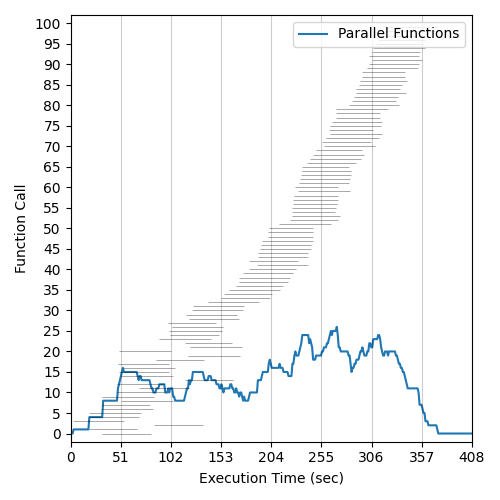
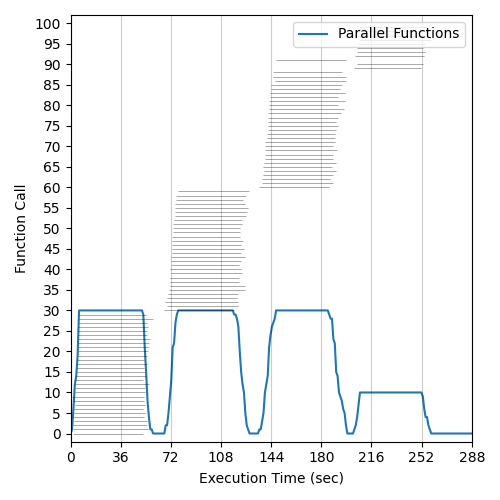
update azure containerapp flops bench

diff --git a/benchmarks/flops/azure_containers/README.md b/benchmarks/flops/azure_containers/README.md
@@ -1,8 +1,6 @@
 # Microsoft Azure Container Apps Flops Benchmark (westeurope)
-# Date: 13/06/2022
---------
 
-## Total Parallelism: 100 - Runtime Memory: 1024
+## Total Invocations: 100 - Runtime Memory: 1024 - Date: 13/06/2022
 ### Execution Histogram | GFLOP Rates | Peak and Effective GFLOPS
 <p align="center">
   <img width="33%" src="100_flops_execution.png"></img>
@@ -11,10 +9,7 @@
 </p>
 
 
-## Total Parallelism: 1000 - Runtime Memory: 1024
+## Total Invocations: 1000 - Runtime Memory: 1024 - Date: 13/06/2022
 ### Execution Histogram | GFLOP Rates | Peak and Effective GFLOPS
-<p align="center">
-  <img width="33%" src="1000_flops_execution.png"></img>
-  <img width="33%" src="1000_flops_rates.png"></img>
-  <img width="33%" src="1000_flops_gflops.png"></img>
-</p>
+
+* **Note**: Azure Container APPs limits the scalability to 30 parallel containers, so the results of the previous benchmark are applicable to any number of invocations >= 30.

diff --git a/benchmarks/flops/ibm_cf/README.md b/benchmarks/flops/ibm_cf/README.md
@@ -1,8 +1,6 @@
 # IBM Cloud Functions - Flops Benchmark (us-east)
-# Date: 13/06/2022
---------
 
-## Total Parallelism: 100 - Runtime Memory: 1024MB
+## Total Invocations: 100 - Runtime Memory: 1024MB - Date: 13/06/2022
 ### Execution Histogram | GFLOP Rates | Peak and Effective GFLOPS
 <p align="center">
   <img width="33%" src="100_flops_execution.png"></img>
@@ -11,7 +9,7 @@
 </p>
 
 
-## Total Parallelism: 1000 - Runtime Memory: 1024MB
+## Total Invocations: 1000 - Runtime Memory: 1024MB - Date: 13/06/2022
 ### Execution Histogram | GFLOP Rates | Peak and Effective GFLOPS
 <p align="center">
   <img width="33%" src="1000_flops_execution.png"></img>

diff --git a/benchmarks/flops/azure_functions/README.md b/benchmarks/flops/azure_functions/README.md
@@ -1,8 +1,6 @@
 # Microsoft Azure Functions Flops Benchmark (westeurope)
-# Date: 11/06/2022
---------
 
-## Total Parallelism: 100 - Runtime Memory: MAX
+## Total Invocations: 100 - Runtime Memory: MAX - Date: 11/06/2022
 ### Execution Histogram | GFLOP Rates | Peak and Effective GFLOPS
 <p align="center">
   <img width="33%" src="100_flops_execution.png"></img>
@@ -11,7 +9,7 @@
 </p>
 
 
-## Total Parallelism: 1000 - Runtime Memory: MAX
+## Total Invocations: 1000 - Runtime Memory: MAX - Date: 11/06/2022
 ### Execution Histogram | GFLOP Rates | Peak and Effective GFLOPS
 <p align="center">
   <img width="33%" src="1000_flops_execution.png"></img>

diff --git a/benchmarks/flops/gcp_run/README.md b/benchmarks/flops/gcp_run/README.md
@@ -1,7 +1,6 @@
 # Google Cloud Run Flops Benchmark
 
-
-## Total Concurrency: 100 - Runtime Memory: 1024MB - Date: 12/06/2022
+## Total Invocations: 100 - Runtime Memory: 1024MB - Date: 12/06/2022
 ### Execution Histogram | GFLOP Rates | Peak and Effective GFLOPS
 <p align="center">
   <img width="33%" src="100_flops_execution.png"></img>
@@ -10,7 +9,7 @@
 </p>
 
 
-## Total Concurrency: 1000 - Runtime Memory: 1024MB - Date: 12/06/2022
+## Total Invocations: 1000 - Runtime Memory: 1024MB - Date: 12/06/2022
 ### Execution Histogram | GFLOP Rates | Peak and Effective GFLOPS
 <p align="center">
   <img width="33%" src="1000_flops_execution.png"></img>

diff --git a/benchmarks/flops/gcp_functions/README.md b/benchmarks/flops/gcp_functions/README.md
@@ -1,7 +1,6 @@
 # GCP Functions Flops Benchmark
 
-
-## Total Concurrency: 100 - Runtime Memory: 1024MB - Date: 09/06/2021
+## Total Invocations: 100 - Runtime Memory: 1024MB - Date: 09/06/2021
 ### Execution Histogram | GFLOP Rates | Peak and Effective GFLOPS
 <p align="center">
   <img width="33%" src="100_flops_execution.png"></img>
@@ -10,7 +9,7 @@
 </p>
 
 
-## Total Concurrency: 1000 - Runtime Memory: 1024MB - Date: 09/06/2022
+## Total Invocations: 1000 - Runtime Memory: 1024MB - Date: 09/06/2022
 ### Execution Histogram | GFLOP Rates | Peak and Effective GFLOPS
 <p align="center">
   <img width="33%" src="1000_flops_execution.png"></img>

diff --git a/benchmarks/flops/aws_lambda/README.md b/benchmarks/flops/aws_lambda/README.md
@@ -1,8 +1,6 @@
 # AWS Lambda Flops Benchmark (eu-west-1)
-# Date: 11/06/2022
---------
 
-## Total Parallelism: 100 - Runtime Memory: 1024MB
+## Total Parallelism: 100 - Runtime Memory: 1024MB - Date: 11/06/2022
 ### Execution Histogram | GFLOP Rates | Peak and Effective GFLOPS
 <p align="center">
   <img width="33%" src="100_flops_execution.png"></img>
@@ -11,7 +9,7 @@
 </p>
 
 
-## Total Parallelism: 1000 - Runtime Memory: 1024MB
+## Total Parallelism: 1000 - Runtime Memory: 1024MB - Date: 11/06/2022
 ### Execution Histogram | GFLOP Rates | Peak and Effective GFLOPS
 <p align="center">
   <img width="33%" src="1000_flops_execution.png"></img>

diff --git a/benchmarks/README.md b/benchmarks/README.md
@@ -4,7 +4,7 @@ FaaS Service Flops benchmark:
 
 - [IBM Cloud Functions](flops/ibm_cf)
 - [AWS Lambda](flops/aws_lambda)
-- [Microsoft Azure Function Apps](flops/azure_functions)
+- [Microsoft Azure Functions](flops/azure_functions)
 - [Microsoft Azure Container Apps](flops/azure_containers)
 - [Google Cloud Functions](flops/gcp_functions)
 - [Google Cloud Run](flops/gcp_run)

diff --git a/benchmarks/flops/aliyun_fc/README.md b/benchmarks/flops/aliyun_fc/README.md
@@ -1,6 +1,5 @@
 # Aliyun Function Compute Flops Benchmark
 
-
 ## Total Concurrency: 100 - Runtime Memory: 1024MB - Date: 13/05/2020
 ### Execution Histogram | GFLOP Rates | Peak and Effective GFLOPS
 <p align="center">
